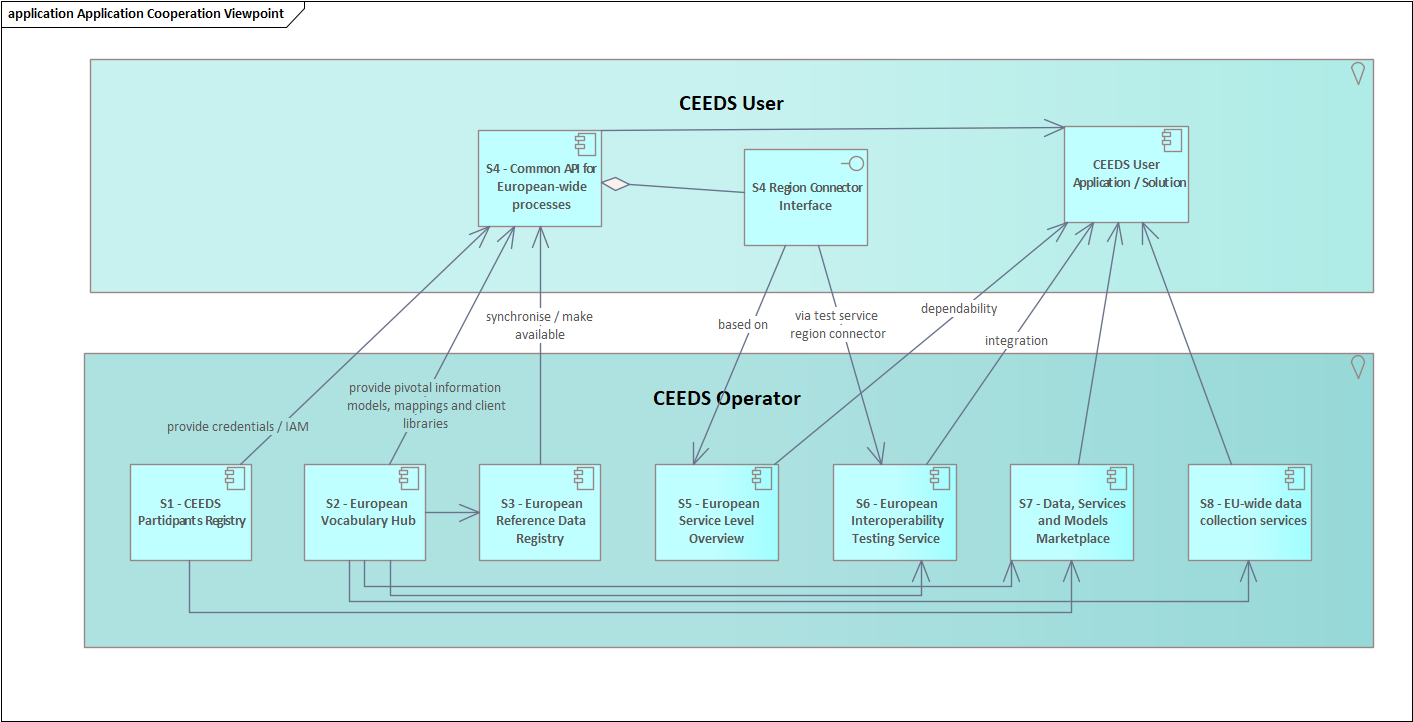
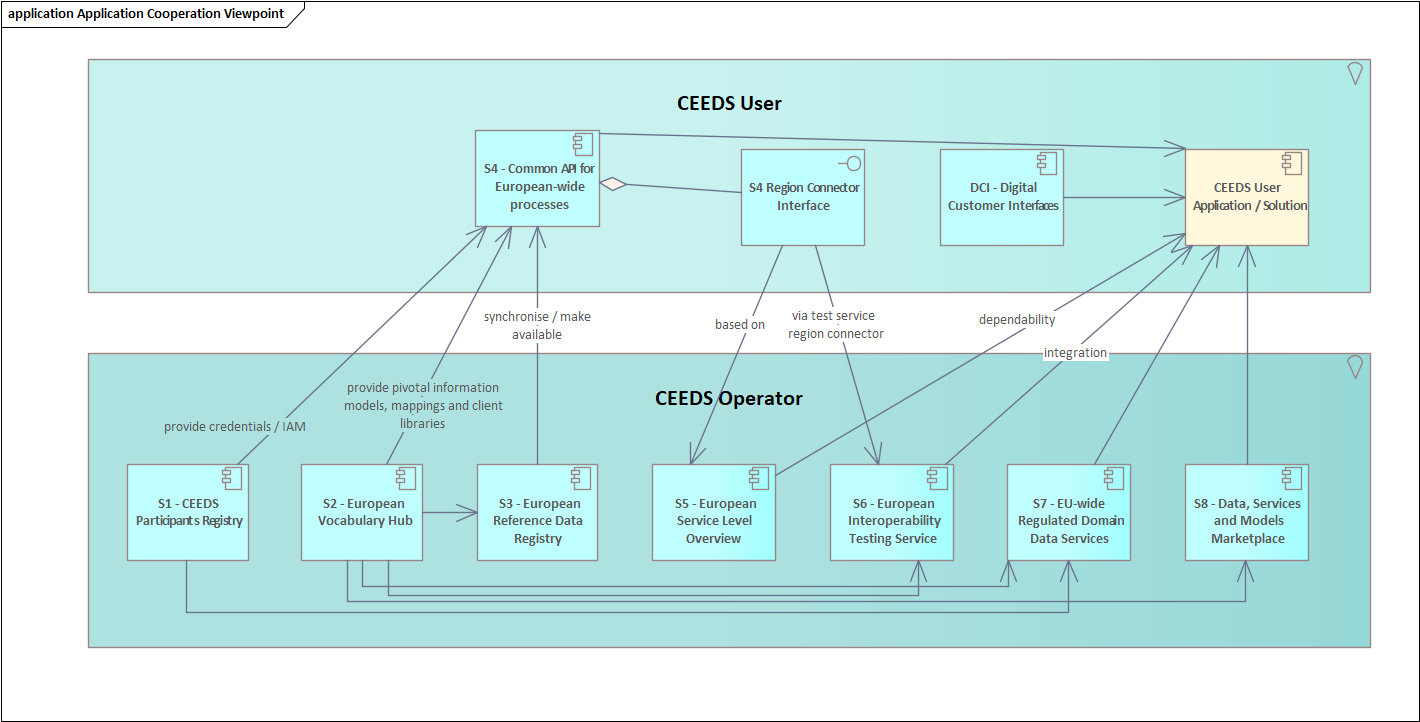
include description of federation architecture as described in D4.1

diff --git a/docs/meta-level-operating-services/meta-level-operating-services.md b/docs/meta-level-operating-services/meta-level-operating-services.md
@@ -3,17 +3,21 @@ title: Meta-Level Operating Services
 order: 3
 ---
 
-
-| ID  | Operating Service                                                                                                                   | Acronym |
-|-----|-------------------------------------------------------------------------------------------------------------------------------------|---------|
-| S1  | [CEEDS Participants Registry](ceeds-participants-registry/ceeds-participants-registry.md)                                           | CPR     |
-| S2  | [European Vocabulary Hub](european-vocabulary-hub/european-vocabulary-hub.md)                                                       | EVH     |
-| S3  | [European Reference Data Registry](european-reference-data-registry/european-reference-data-registry.md)                            | ERDR    |
-| S4  | [Common API for European-wide Processes](common-api-for-european-wide-processes/common-api-for-european-wide-processes.md)          | CAEP    |
-| S5  | [European Service Level Overview](european-service-level-overview/european-service-level-overview.md)                               | ESLO    |      
-| S6  | [European Interoperability Testing Service](european-interoperability-testing-service/european-interoperability-testing-service.md) | EITS    |
-| S7  | [European Data and Services Marketplace](european-data-and-services-marketplace/european-data-and-services-marketplace.md)          | EDSM    |
-| S8  | [EU-wide Regulated-Domain Services](eu-wide-regulated-domain-services/eu-wide-regulated-domain-services.md)                         | ERDS    |
-| DCI | [Digital Customer Interface](digital-customer-interface/digital-customer-interface.md)                                              | DCI     |
-
 ![Application Cooperation Viewpoint of CEEDS Services](./app_coop_vp.png)
+
+As shown in the diagram, within the INSIEME federation strategy, application cooperation is achieved through a federated service ecosystem in which applications and digital customer solutions integrate with common interoperability services rather than establishing bilateral integrations with individual national or sectoral systems. This cooperation is enabled through a harmonised European process interface (S4), regional connector interfaces, and digital customer interfaces, which together allow applications to access cross-border and cross-domain services in a consistent and scalable manner. The S4 common API serves as the principal gateway for European-wide processes and may be deployed either in a decentralised architecture, where interoperability functions are distributed across multiple coordinated nodes, or in a centralised architecture, where a single federated service provides unified access, depending on national and operational requirements. These application interfaces are supported by the CEEDS Operator services providing identity and trust management, semantic and reference data harmonisation, interoperability testing, regulated data services, service monitoring, and marketplace capabilities, thereby ensuring secure, transparent, and reusable integration across the INSIEME ecosystem while supporting innovation, regulatory compliance, and efficient onboarding of new participants and services.
+
+
+| ID  | Operating Service                                                                                                                                                                                                                 | Acronym |
+|-----|-----------------------------------------------------------------------------------------------------------------------------------------------------------------------------------------------------------------------------------|---------|
+| S1  | [CEEDS Participants Registry (CPR)](ceeds-participants-registry/ceeds-participants-registry.md); Provides federated participant onboarding, identity management, and trust verification.                                          | CPR     |
+| S2  | [European Vocabulary Hub (EVH)](european-vocabulary-hub/european-vocabulary-hub.md); Maintains harmonised vocabularies, ontologies, and semantic translation services.                                                            | EVH     |
+| S3  | [European Reference Data Registry (ERDR)](european-reference-data-registry/european-reference-data-registry.md); Maintains authoritative master data and reference identifiers.                                                   | ERDR    |
+| S4  | [Common API for European-wide Processes (CAEP)](common-api-for-european-wide-processes/common-api-for-european-wide-processes.md); Enables standardised cross-border service invocation and orchestration.                        | CAEP    |
+| S5  | [European Service Level Overview (ESLO)](european-service-level-overview/european-service-level-overview.md); Provides monitoring and transparency of distributed service performance.                                            | ESLO    |      
+| S6  | [European Interoperability Testing Service (EITS)](european-interoperability-testing-service/european-interoperability-testing-service.md); Ensures conformance testing and interoperability certification.                       | EITS    |
+| S7  | [European Data and Services Marketplace (EDSM)](european-data-and-services-marketplace/european-data-and-services-marketplace.md); Supports service discovery, publication, and contracting through classic dataspace-like means. | EDSM    |
+| S8  | [EU-wide Regulated-Domain Services (ERDS)](eu-wide-regulated-domain-services/eu-wide-regulated-domain-services.md); Supports regulatory reporting, compliance monitoring, and cross-border regulatory coordination.               | ERDS    |
+| DCI | [Digital Customer Interface (DCI)](digital-customer-interface/digital-customer-interface.md); Provides user-facing access to services including consent management and service orchestration.                                                                                                                                    | DCI     |
+
+These *CEEDS Meta-Level Operating Systems* are being further specified in *Task 2.2 – Data Space Conceptualisation*, with a finalisation deadline in M18 (October '26). Notably, the structure, terminology and strategy is fully aligned with recent outcomes of the European Commission’s *Data4Energy Expert Group*. The diagram below shows a high-level overview on dependencies, responsibilities and interactions between the different services.

diff --git a/docs/reference-models/reference-models.md b/docs/reference-models/reference-models.md
@@ -7,6 +7,24 @@ aside: false
 
 ![Structure of Reference Models](./reference-models.png)
 
+The figure above provides a structured framework for organising how the functional scope within the 
+*Common European Energy Data Space (CEEDS)* and the INSIEME federation are designed, standardised, regulated, and ultimately deployed. The model separates procedures into several complementary categories, each addressing a distinct dimension of the European energy data ecosystem while maintaining strong interdependencies between them. The framework is aligned with the latest outcomes of the European Commission’s Data4Energy expert group and foresees a strong governance role for the Energy Data Implementing Acts following Article 24 of Directive (EU) 2019/944.
+
+At the highest level, **Deployment Procedures** represent the operational implementation layer of the framework, describing WHAT is actually deployed as demonstrators in the project. Their primary purpose is to demonstrate and operationalise CEEDS functionalities by applying the capabilities defined within the various reference procedures. Deployment Procedures translate conceptual and standardised process definitions into real-world solutions and implementation environments. They enable demonstration projects, pilots, and production deployments that validate both technical feasibility and regulatory compliance. In essence, Deployment Procedures represent the point where reference models are converted into tangible services and infrastructures, ensuring that CEEDS and INSIEME functionalities are not only theoretically defined but practically executable.
+
+Central to the framework are the **Commercial-Domain Reference Procedures**, which establish the foundations for market-driven energy data services. These procedures are designed to standardise how commercial services can be created, exchanged, and scaled across European energy data spaces. They provide reusable solution building blocks that service providers can incorporate into their offerings, thereby promoting competition and innovation. Commercial-Domain Reference Procedures may rely on regulated domain procedures or data sharing mechanisms, but they remain focused on enabling voluntary, value-driven service ecosystems. A key characteristic of this layer is interchangeability, which ensures that multiple service providers can deliver comparable services while maintaining interoperability. Consequently, the Commercial Domain Reference Procedures play a critical role in enabling sustainable business models and supporting the development of a competitive digital energy service market.
+
+The **Regulated Domain Reference Procedures** form the legal and operational backbone of the framework. These procedures define processes that are either mandated by regulation or expected to become regulatory requirement, guaranteeing a legally sound availability of needed functionalities.  They are typically implemented by regulated actors such as transmission system operators, distribution system operators, market operators, and regulatory authorities, often as a result of European legislation and/or the Implementing Acts on Data Interoperability following Directive (EU) 2019/944 (like e.g. Commission Implementing Regulation 2023/1162). Their main objective is to ensure compliance with European and national legislation, guarantee market transparency, and support system reliability and security of supply. Regulated procedures often establish the baseline infrastructure and governance mechanisms upon which commercial and voluntary services can be built. In this sense, the regulated domain provides the trusted environment necessary for the broader data ecosystem to function.
+
+Complementing both regulated and commercial procedures are the **Data Sharing-Focused Procedures**. These procedures specifically address mechanisms for voluntary, negotiated, or commercialised data sharing that extend beyond legally mandated processes. Their purpose is to support innovation by enabling flexible data exchange models between ecosystem participants. Data Sharing-Focused Procedures are particularly relevant for enabling customer-centric services, advanced analytics, and emerging energy services driven by distributed energy resources and prosumer participation. They also play a crucial role in feeding requirements into marketplace services, such as the European Data and Services Marketplace, by identifying new opportunities for data-driven value creation. As such, this layer also represents the experimental and innovation-oriented component of the framework.
+
+All reference procedures may require the utilisation of different **CEEDS Meta-Level Operating Services**, such as participant registries, interoperability testing services, and regulatory compliance services.
+
+The interaction between these different types of procedures ensures that the ecosystem remains both compliant and innovative. Regulated procedures provide trusted and legally compliant infrastructures that commercial services can leverage. Commercial procedures translate regulatory and technical capabilities into competitive market services. Data sharing procedures enable experimentation and the development of new service concepts, which may later evolve into commercial offerings or regulatory processes. Deployment procedures integrate and validate all these elements by implementing them in real operational contexts.
+
+Overall, the reference procedure model ensures that the European energy data ecosystem evolves in a coordinated and scalable manner. It balances regulatory stability with market flexibility, supports interoperability across national data spaces, and fosters innovation while maintaining data sovereignty and compliance. Within the INSIEME federation strategy, this layered approach ensures that CEEDS Meta-Level Operating Services, regulatory processes, commercial service frameworks, and deployment mechanisms work together to create a coherent and resilient European energy data space
+
+
 ### Regulated Domain Reference Models
 
 <div class="procedure-matrix full-width-table small-table">

diff --git a/docs/meta-level-operating-services/digital-customer-interface/digital-customer-interface.md b/docs/meta-level-operating-services/digital-customer-interface/digital-customer-interface.md
@@ -5,6 +5,17 @@ order: 9
 
 ## Function and Objective
 
+The *Digital Customer Interface (DCI)* class of services provides trusted user access to federated energy services. It enables customer consent management, access to data services, participation in service marketplaces, and interaction with optimisation and flexibility services. DCI aligns with implementations such as AIIDA and Power Grid User Interfaces and ensures customer-level sovereignty enforcement.
+
+![Market-Edge architecture as recommended by Data4Energy expert group](./market-edge-architecture.png)
+
+**Market-Edge architecture as recommended by Data4Energy expert group  (Source: Joint Report of Data4Energy, Sustainable Transport Forum (STF) and Coalition of the Willing for Smart and Bi-directional charging (CoW))**
+
+The figure above - Market-Edge architecture as recommended by Data4Energy - shows the the proposed overall reference view as developed by the European Commission’s Data4Energy expert group. The input for this architecture is based on the architecture from the TC13/SC23K JAG4 defined by the experts of standardisation work groups IEC TC57 WG21 (purple boxes), TC 13 WG14 (blue boxes) and SC23K WG3 (red boxes).
+Digital and closer-to-realtime communication of system operators, service providers and DER Operators/Aggregators with final customers is gaining increasing importance for the implementation of both rules-based and market-based, as well as both implicit and explicit flexibility schemas. Yet, different data space environments offer different solutions for the architectural building block, often realising solutions for both the Energy Management Gateway (EMG), Consumer Energy Management (CEM) and the PCC Monitor. As an example, EDDIE includes AIIDA (Administrative Interface for In-house Data Access adding Customer Sovereignty, Edge Autonomy and Consent Management), whereas the RomeFlex/OneNet/Sogno Cluster puts forwards the “Power Grids User Interface” (PGUI). Other developments – like the Dutch NextGen Smart Meter Initiative – are evaluating similar concepts.
+
+As part of the *INSIEME Federation Strategy*, solutions and relevant procedures are piloted to identify and update available standards, to make them interoperable and allow for competition, markets and choice at the grid-edge.
+
 ## Business Architecture
 
 <!-- 
